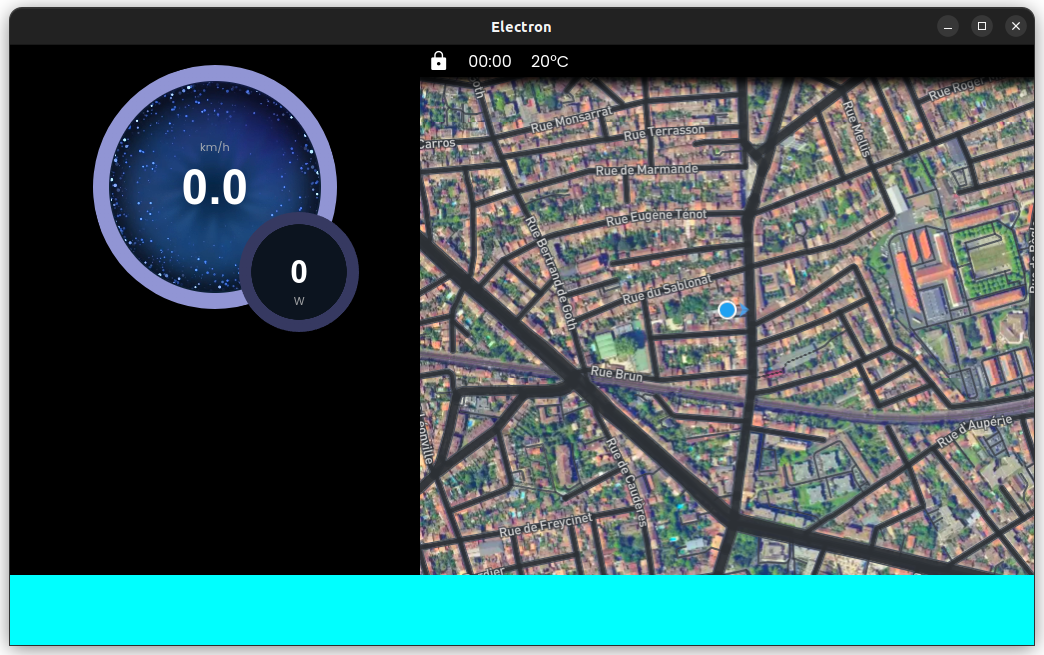
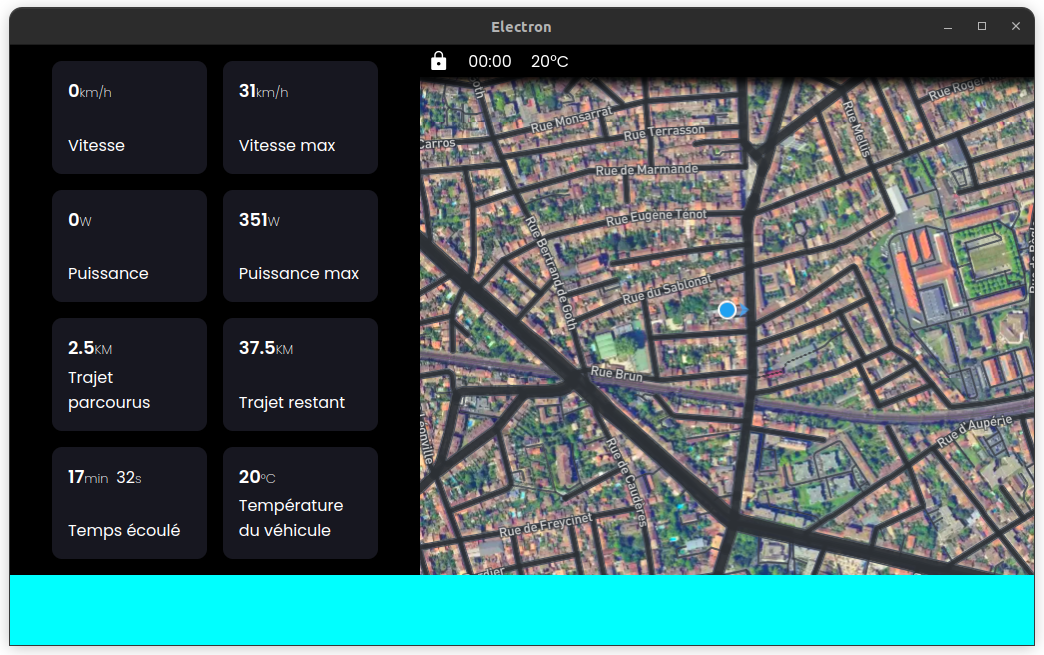
Interface Update

diff --git a/dashboard/src/index.html b/dashboard/src/index.html
@@ -16,37 +16,40 @@
     <div class="screen active " id="main-screen">
         <div class="root">
             <div class="left-part">
-                <div id="speedometer" class="speedometer">
-                    <div id="speedometer-circle">
-                    </div>
-                    <video id="speedometer-background" src="./media/videos/power_dark.webm" autoplay loop></video>
-                    <div id="speedometer-text-container">
-                        <span id="speedometer-text-units">km/h</span>
-                        <span id="speedometer-text-value">0.0</span>
-                    </div>
-                    <div id="powermeter1"></div>
-                    <div id="powermeter2"></div>
-                    <div id="powermeter-text-container">
-                        <span id="powermeter-text-value">0</span>
-                        <span id="powermeter-text-units">W</span>
-                    </div>
+                <div class="left-card">
+                    <div class="left-card-value"><span>0</span><span>km/h</span></div>
+                    <div class="left-card-title"><span>Vitesse</span></div>
+                </div>
+                <div class="left-card">
+                    <div class="left-card-value"><span>31</span><span>km/h</span></div>
+                    <div class="left-card-title"><span>Vitesse max</span></div>
+                </div>
+                <div class="left-card">
+                    <div class="left-card-value"><span>0</span><span>W</span></div>
+                    <div class="left-card-title"><span>Puissance</span></div>
+                </div>
+                <div class="left-card">
+                    <div class="left-card-value"><span>351</span><span>W</span></div>
+                    <div class="left-card-title"><span>Puissance max</span></div>
+                </div>
+                <div class="left-card">
+                    <div class="left-card-value"><span>2.5</span><span>KM</span></div>
+                    <div class="left-card-title"><span>Trajet parcourus</span></div>
+                </div>
+                <div class="left-card">
+                    <div class="left-card-value"><span>37.5</span><span>KM</span></div>
+                    <div class="left-card-title"><span>Trajet restant</span></div>
+                </div>
+                <div class="left-card">
+                    <div class="left-card-value"><span>17</span><span>min</span><span>32</span><span>s</span></div>
+                    <div class="left-card-title"><span>Temps écoulé</span></div>
+                </div>
+                <div class="left-card">
+                    <div class="left-card-value"><span>20</span><span>°C</span></div>
+                    <div class="left-card-title"><span>Température du véhicule</span></div>
                 </div>
 
-                <div class="battery-container">
-                    <div class="battery">
-                        <div class="battery__wrapper">
-                            <span class="battery__text">80%</span>
-                        </div>
-                        <div class="battery__box">
-                            <div class="inner inner__top"></div>
-                            <div class="inner inner__front"></div>
-                            <div class="inner inner__bottom"></div>
-                            <div class="inner inner__back"></div>
-                            <div class="inner inner__left"></div>
-                            <div class="inner inner__right"></div>
-                        </div>
-                    </div>
-                </div>
+                
             </div>
             <div class="main-part">
                 <div id="main-view" class="view active">

diff --git a/dashboard/src/style.css b/dashboard/src/style.css
@@ -71,10 +71,41 @@ body {
     width: 40%;
     height: 100%;
     display: flex;
-    justify-content: space-between;
-    flex-direction: column;
-    align-items: center;
+    flex-wrap: wrap;
+    justify-content: center;
+    align-content: stretch;
 }
+
+.left-card {
+    background-color: #171720;
+    width: 30%;
+    height: calc(25% - 3.25rem);
+    padding: 1rem;
+    margin: 0.5rem;
+    border-radius: 10px;
+    display: flex;
+    flex-direction: column;
+    justify-content: space-between;
+}
+.left-card:nth-child(1), .left-card:nth-child(2) {
+    margin-top: 1rem;
+}
+.left-card:nth-last-child(1), .left-card:nth-last-child(2) {
+    margin-bottom: 1rem;
+}
+.left-card-value>span:nth-child(1) {
+    font-weight: bold;
+    font-size: large;
+}
+.left-card-value>span:nth-child(2), .left-card-value>span:nth-child(4){
+    font-weight: lighter;
+    font-size: small;
+}
+.left-card-value>span:nth-child(3) {
+    margin-left: .5rem;
+}
+
+
 .speedometer {
     position: relative;
     padding: 1rem;

diff --git a/dashboard/src/classes/MediaLoader.js b/dashboard/src/classes/MediaLoader.js
@@ -20,8 +20,8 @@ class MediaLoader extends EventEmitter {
         this.preinitied = false;
         this.ready = false;
         this.database = new Database()
-        this.speedometer = new Speedometer()
-        this.powermeter = new Powermeter()
+        // this.speedometer = new Speedometer()
+        // this.powermeter = new Powermeter()
     }
     preinit() {
         if (!this.preinitied) {
@@ -54,8 +54,8 @@ class MediaLoader extends EventEmitter {
             const cb = () => {
                 i++
                 if (i === 2) {
-                    this.speedometer.init()
-                    this.powermeter.init()
+                    // this.speedometer.init()
+                    // this.powermeter.init()
                     this.emit("ready", performance.now() - t)
                     this.ready = true
                 }
